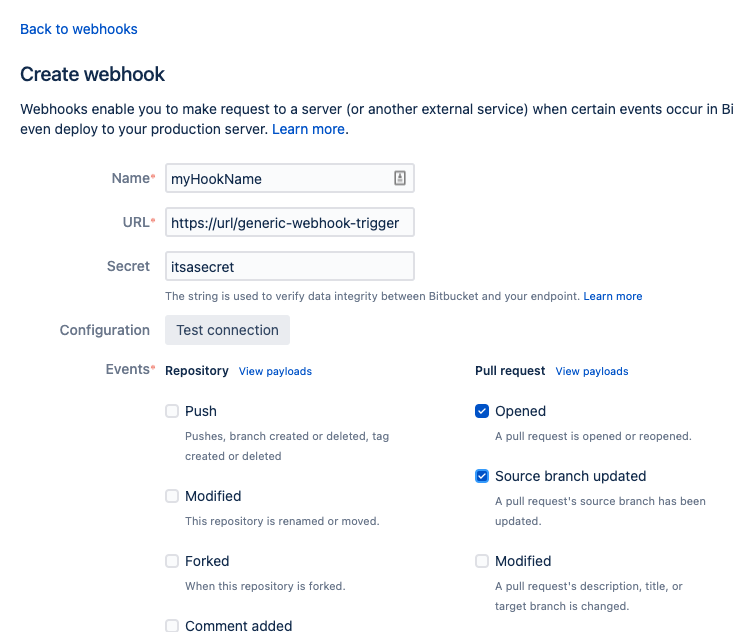
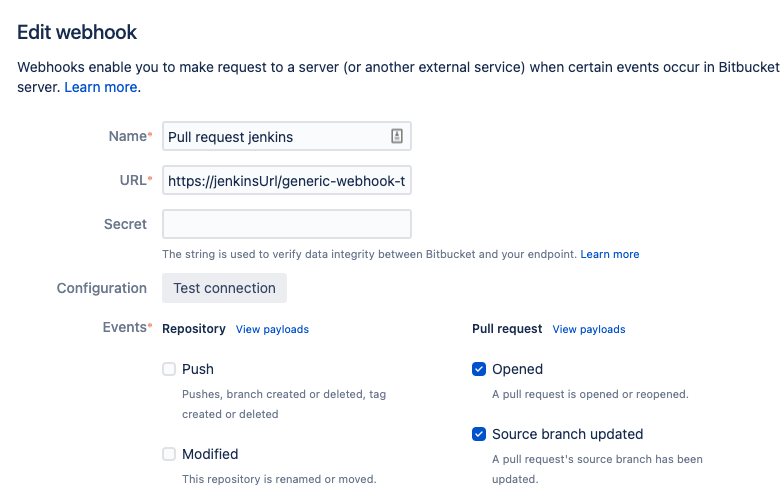
update bb server

diff --git a/docs/templates/jenkins/README.md b/docs/templates/jenkins/README.md
@@ -1,8 +1,9 @@
 [Go back to the Installation documentation page](../../../README.md)
 
-# Frogbot Jenkins Templates
+# Setup Frogbot Using Jenkins
 
 <img src="../../../images/jenkins-logo.png" width="250">
+<img src="../../../images/frogbot-intro.png" width="250">
 
 ### 🖥 Follow These steps to install Frogbot on Jenkins
 <details>
@@ -21,13 +22,14 @@
 - Webhook Link: `JENKINS_URL/generic-webhook-trigger/invoke`    
 - Optional - **JobToken** : When using the plugin in several jobs, you will have the same URL trigger all jobs. If you want to trigger only a certain job you can use the **JobToken** in the URL to specify what job needs to be executed.
 - Webhook Link with **JobToken**: `JENKINS_URL/generic-webhook-trigger/invoke?token=JobToken` [JobToken Docs](https://plugins.jenkins.io/generic-webhook-trigger/#plugin-content-trigger-only-specific-job) 
-- Choose your Git provider:
+- 🌟 Choose your Git provider:
     <details>
       <summary> Bitbucket Server  </summary>
   
     - Go to repository settings and select Webhooks , and create a new webhook.
-    - <img src="../../../images/bitbucket-webhook-setup.png">
-    - <img src="../../../images/bitbucketserver-create-webhook.png">
+    <img src="../../../images/bitbucket-webhook-setup.png">
+    - Set the webhook URL  `https://jenkinsUrl/generic-webhook-trigger/invoke?token=JobToken`
+    <img src="../../../images/bitbucketserver-create-webhook.png">
 
     </details>
 
@@ -54,8 +56,9 @@
   
   - Go your project settings and select webhooks.
   - Setup a webhhok with merge request events
+  - **Secret Token** is the JobToken to execute a specific job, this is optional.
   -  <img src="../../../images/GitLab_webhook.png">
-  - Secret Token should be the same as defined in Jenkins credentials. **TRIGGER_SECRET**
+  
    - Fill in your **JENKINS URL/generic-webhook-trigger/invoke** , **SECRET_TOKEN** and select add webhook.
 
 </details>
@@ -69,7 +72,6 @@
     - **JF_URL**
     - **JF_ACCESS_TOKEN** *or* **JF_USER**  & **JF_PASSWORD**
     - **JF_GIT_TOKEN** access token with read&write access to the repository.
-    - **TRIGGER_SECRET** secret used when creating the webhook.
 - [How to use credentials with Jenkins](https://www.jenkins.io/doc/book/using/using-credentials/)
 
 </details>
